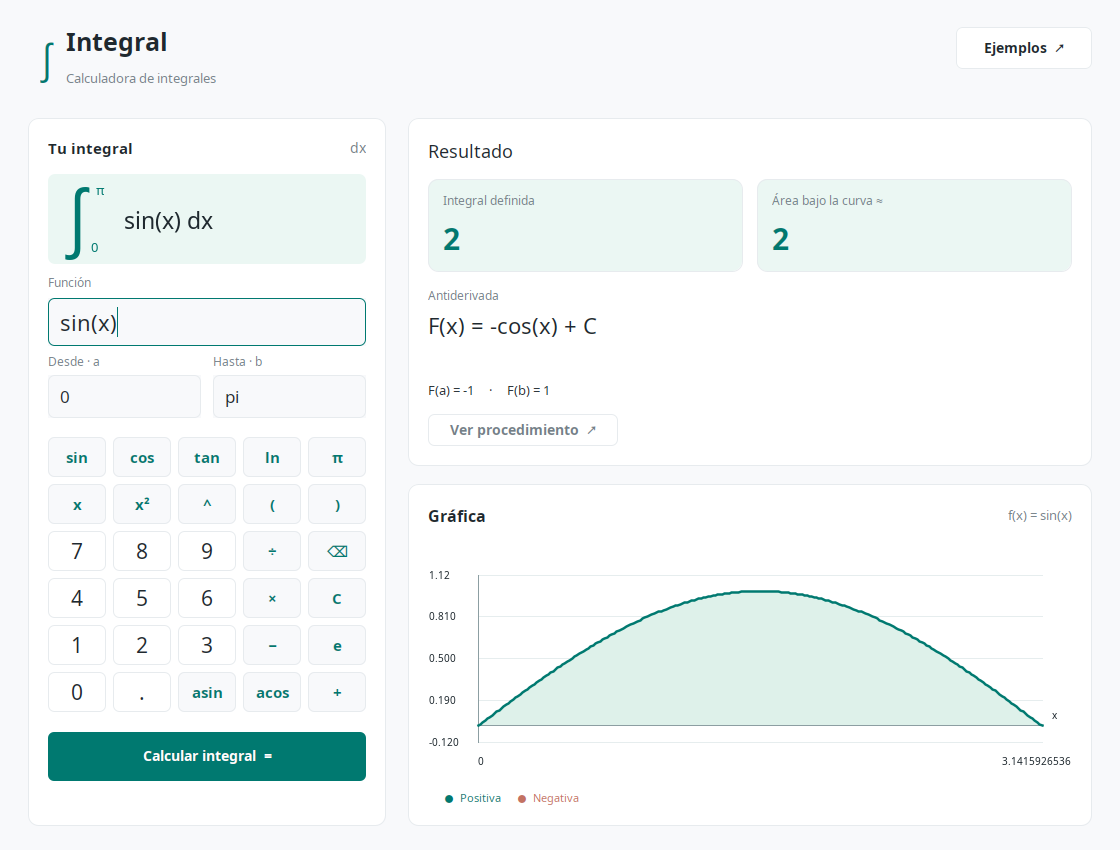
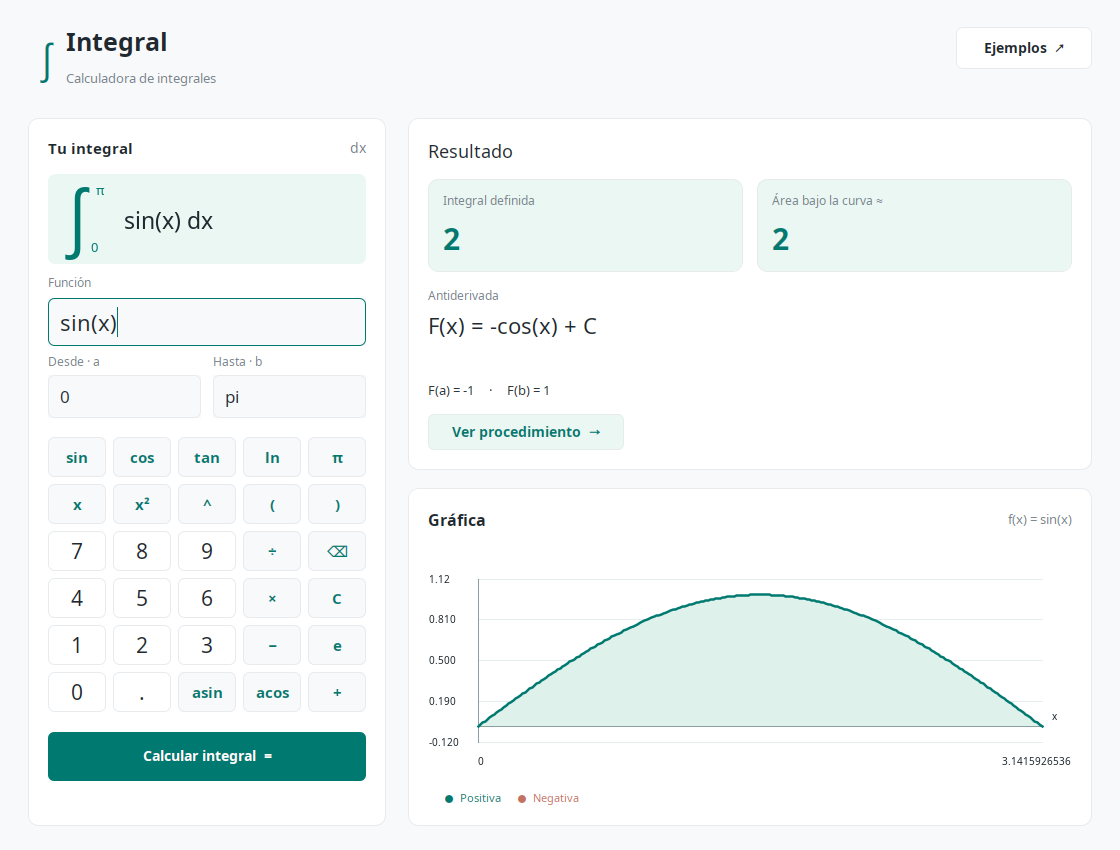
Mejorar estado vacio de grafica y vista del procedimiento

diff --git a/java/Aplicacion.java b/java/Aplicacion.java
@@ -32,7 +32,8 @@ public final class Aplicacion {
     private final JLabel area = valor("—");
     private final JTextArea primitiva = texto(22);
     private final JTextArea evaluaciones = texto(13);
-    private final JTextArea pasos = texto(14);
+    private final Boton verPasos = new Boton("Ver procedimiento  →", VERDE_CLARO, ACENTO);
+    private PuenteProlog.Resultado resultadoActual;
     private final JLabel funcionGrafica = etiqueta("f(x) = 2x", 13, SUAVE);
     private final JLabel tituloResultado = etiqueta("Resultado", 18, TINTA);
     private final Grafica grafica = new Grafica();
@@ -167,14 +168,9 @@ public final class Aplicacion {
         formula.add(evaluaciones, BorderLayout.SOUTH);
         resumen.add(formula, BorderLayout.CENTER);
         resultado.add(resumen, BorderLayout.CENTER);
-        Boton verPasos = new Boton("Ver procedimiento  ↗", Color.WHITE, SUAVE);
         verPasos.setName("procedimiento");
-        verPasos.setPreferredSize(new Dimension(190, 32));
-        verPasos.addActionListener(e -> {
-            JScrollPane scroll = new JScrollPane(pasos); scroll.setBorder(null);
-            scroll.setPreferredSize(new Dimension(490, 320));
-            JOptionPane.showMessageDialog(verPasos, scroll, "Procedimiento", JOptionPane.PLAIN_MESSAGE);
-        });
+        verPasos.setPreferredSize(new Dimension(196, 36));
+        verPasos.addActionListener(e -> mostrarProcedimiento());
         JPanel mas = panel(new FlowLayout(FlowLayout.LEFT, 0, 0)); mas.add(verPasos);
         resultado.add(mas, BorderLayout.SOUTH);
         columna.add(resultado, BorderLayout.NORTH);
@@ -192,6 +188,87 @@ public final class Aplicacion {
         curva.add(leyenda, BorderLayout.SOUTH);
         columna.add(curva, BorderLayout.CENTER);
         return columna;
+    }
+
+    private void mostrarProcedimiento() {
+        if (resultadoActual == null) return;
+        PuenteProlog.Resultado r = resultadoActual;
+        JDialog dialogo = new JDialog(SwingUtilities.getWindowAncestor(verPasos),
+                "Procedimiento", Dialog.ModalityType.DOCUMENT_MODAL);
+        dialogo.setName("dialogo-procedimiento");
+        dialogo.setDefaultCloseOperation(WindowConstants.DISPOSE_ON_CLOSE);
+        JPanel contenido = panel(new BorderLayout(0, 20));
+        contenido.setOpaque(true); contenido.setBackground(Color.WHITE);
+        contenido.setBorder(BorderFactory.createEmptyBorder(24, 26, 22, 26));
+
+        JPanel encabezado = panel(new BorderLayout(0, 12));
+        encabezado.add(negrita("Procedimiento", 22), BorderLayout.NORTH);
+        JTextArea integral = texto(16);
+        integral.setForeground(SUAVE);
+        integral.setText("∫ " + visual(expresion.getText().strip()) + " dx");
+        integral.setRows(2);
+        encabezado.add(integral, BorderLayout.CENTER);
+        contenido.add(encabezado, BorderLayout.NORTH);
+
+        JPanel lista = panel(null);
+        lista.setLayout(new BoxLayout(lista, BoxLayout.Y_AXIS));
+        lista.setBorder(BorderFactory.createEmptyBorder(0, 0, 0, 10));
+        for (int i = 0; i < r.pasos().size(); i++) {
+            JPanel fila = panel(new BorderLayout(12, 0));
+            Tarjeta numero = new Tarjeta(VERDE_CLARO);
+            numero.setBorder(BorderFactory.createEmptyBorder());
+            numero.setLayout(new GridBagLayout());
+            numero.setPreferredSize(new Dimension(30, 30));
+            JLabel orden = negrita(Integer.toString(i + 1), 12);
+            orden.setForeground(ACENTO); numero.add(orden);
+            JPanel indicador = panel(new BorderLayout());
+            indicador.add(numero, BorderLayout.NORTH);
+            fila.add(indicador, BorderLayout.WEST);
+            JTextArea explicacion = texto(14);
+            explicacion.setText(visual(r.pasos().get(i)));
+            explicacion.setSize(410, Short.MAX_VALUE);
+            explicacion.setPreferredSize(new Dimension(410, Math.max(30, explicacion.getPreferredSize().height)));
+            fila.add(explicacion, BorderLayout.CENTER);
+            fila.setAlignmentX(Component.LEFT_ALIGNMENT);
+            fila.setMaximumSize(new Dimension(Integer.MAX_VALUE, fila.getPreferredSize().height));
+            lista.add(fila);
+            if (i < r.pasos().size() - 1) lista.add(Box.createVerticalStrut(18));
+        }
+        JScrollPane scroll = new JScrollPane(lista);
+        scroll.setName("pasos-procedimiento");
+        scroll.setBorder(null); scroll.getViewport().setBackground(Color.WHITE);
+        scroll.setHorizontalScrollBarPolicy(ScrollPaneConstants.HORIZONTAL_SCROLLBAR_NEVER);
+        scroll.getVerticalScrollBar().setUnitIncrement(16);
+        scroll.setPreferredSize(new Dimension(470, Math.min(280, lista.getPreferredSize().height + 4)));
+        contenido.add(scroll, BorderLayout.CENTER);
+
+        JPanel pie = panel(new BorderLayout(0, 18));
+        Tarjeta resumen = new Tarjeta(VERDE_CLARO);
+        resumen.setLayout(new BorderLayout(0, 9));
+        resumen.setBorder(BorderFactory.createEmptyBorder(16, 18, 16, 18));
+        resumen.add(etiqueta("Integral definida", 12, SUAVE), BorderLayout.NORTH);
+        JTextArea evaluacion = texto(16);
+        evaluacion.setOpaque(false);
+        evaluacion.setText("F(b) − F(a) = " + formato(r.fb()) + " − (" + formato(r.fa()) + ")\n= " + formato(r.integral()));
+        evaluacion.setName("resultado-procedimiento");
+        resumen.add(evaluacion, BorderLayout.CENTER);
+        pie.add(resumen, BorderLayout.NORTH);
+        Boton cerrar = new Boton("Cerrar", ACENTO, Color.WHITE);
+        cerrar.setName("cerrar-procedimiento");
+        cerrar.setPreferredSize(new Dimension(104, 38));
+        cerrar.addActionListener(e -> dialogo.dispose());
+        JPanel acciones = panel(new FlowLayout(FlowLayout.RIGHT, 0, 0));
+        acciones.add(cerrar); pie.add(acciones, BorderLayout.SOUTH);
+        contenido.add(pie, BorderLayout.SOUTH);
+        dialogo.setContentPane(contenido);
+        dialogo.getRootPane().setDefaultButton(cerrar);
+        dialogo.getRootPane().registerKeyboardAction(e -> dialogo.dispose(),
+                KeyStroke.getKeyStroke("ESCAPE"), JComponent.WHEN_IN_FOCUSED_WINDOW);
+        dialogo.setMinimumSize(new Dimension(530, 430));
+        dialogo.pack();
+        dialogo.setSize(570, Math.min(700, Math.max(460, dialogo.getHeight())));
+        dialogo.setLocationRelativeTo(verPasos);
+        dialogo.setVisible(true);
     }
 
     private void ejemplos(JButton origen) {
@@ -242,7 +319,8 @@ public final class Aplicacion {
     }
     private void limpiarResultado() {
         definida.setText("—"); area.setText("—");
-        primitiva.setText("—"); evaluaciones.setText(""); pasos.setText("");
+        primitiva.setText("—"); evaluaciones.setText("");
+        resultadoActual = null; verPasos.setEnabled(false);
         tituloResultado.setText("Resultado"); tituloResultado.setForeground(TINTA);
         funcionGrafica.setText("f(x) = " + visual(expresion.getText()));
         grafica.actualizar(List.of());
@@ -265,10 +343,7 @@ public final class Aplicacion {
                     definida.setText(formato(r.integral())); area.setText(formato(r.area()));
                     primitiva.setText("F(x) = " + visual(r.primitiva()) + " + C");
                     evaluaciones.setText("F(a) = " + formato(r.fa()) + "     ·     F(b) = " + formato(r.fb()));
-                    StringBuilder detalle = new StringBuilder();
-                    for (int i = 0; i < r.pasos().size(); i++) detalle.append(i+1).append(". ").append(r.pasos().get(i)).append("\n\n");
-                    detalle.append("F(b) − F(a) = ").append(formato(r.integral()));
-                    pasos.setText(detalle.toString()); pasos.setCaretPosition(0);
+                    resultadoActual = r; verPasos.setEnabled(true);
                     grafica.actualizar(r.puntos());
                     estado.setText(" ");
                 } catch (InterruptedException e) {
@@ -346,7 +421,7 @@ public final class Aplicacion {
         }
         @Override protected void paintComponent(Graphics original) {
             Graphics2D g=(Graphics2D)original.create(); calidad(g); Color fondo=getBackground();
-            if(!isEnabled()) fondo=new Color(216,228,226);
+            if(!isEnabled()) fondo=FONDO;
             else if(getModel().isPressed()) fondo=fondo.darker();
             else if(getModel().isRollover()) fondo=fondo.equals(ACENTO)?ACENTO.darker():new Color(232,243,240);
             g.setColor(fondo); g.fillRoundRect(0,0,getWidth(),getHeight(),12,12);
@@ -369,17 +444,33 @@ public final class Aplicacion {
     private static final class Grafica extends JPanel {
         private static final long serialVersionUID = 1L;
         private List<PuenteProlog.Punto> puntos = List.of();
-        Grafica() { setBackground(Color.WHITE); }
-        void actualizar(List<PuenteProlog.Punto> nuevos) { puntos = nuevos; repaint(); }
+        private final JLabel vacio = etiqueta("La curva aparecerá al calcular", 14, ACENTO);
+        private final Tarjeta tarjetaVacia = new Tarjeta(new Color(229, 245, 237));
+        Grafica() {
+            setName("grafica"); setBackground(Color.WHITE); setLayout(new GridBagLayout());
+            vacio.setName("grafica-vacia");
+            vacio.setIcon(new IconoCurva()); vacio.setIconTextGap(16);
+            vacio.setHorizontalAlignment(SwingConstants.CENTER);
+            vacio.setHorizontalTextPosition(SwingConstants.CENTER);
+            vacio.setVerticalTextPosition(SwingConstants.BOTTOM);
+            tarjetaVacia.setName("tarjeta-grafica-vacia");
+            tarjetaVacia.setLayout(new GridBagLayout());
+            tarjetaVacia.setBorder(BorderFactory.createEmptyBorder(24, 30, 24, 30));
+            tarjetaVacia.add(vacio);
+            add(tarjetaVacia);
+        }
+        void actualizar(List<PuenteProlog.Punto> nuevos) {
+            puntos = nuevos;
+            tarjetaVacia.setVisible(nuevos.isEmpty()); vacio.setVisible(nuevos.isEmpty());
+            revalidate(); repaint();
+        }
         @Override protected void paintComponent(Graphics original) {
             super.paintComponent(original);
             Graphics2D g = (Graphics2D) original.create();
             try {
                 g.setRenderingHint(RenderingHints.KEY_ANTIALIASING, RenderingHints.VALUE_ANTIALIAS_ON);
                 int w = getWidth(), h = getHeight();
-                if (puntos.isEmpty()) {
-                    g.setColor(TINTA); g.drawString("La curva aparecerá al calcular.", 35, h / 2); return;
-                }
+                if (puntos.isEmpty()) return;
                 double minX = puntos.get(0).x(), maxX = puntos.get(puntos.size() - 1).x();
                 double minY = 0, maxY = 0;
                 for (var p : puntos) { minY = Math.min(minY, p.y()); maxY = Math.max(maxY, p.y()); }
@@ -422,6 +513,21 @@ public final class Aplicacion {
                 g.drawString(formato(puntos.get(puntos.size()-1).x()), w - 70, h - 17);
                 g.drawString("x", w - 20, (int)cero - 6);
             } finally { g.dispose(); }
+        }
+    }
+
+    private static final class IconoCurva implements Icon {
+        @Override public int getIconWidth() { return 56; }
+        @Override public int getIconHeight() { return 56; }
+        @Override public void paintIcon(Component c, Graphics original, int x, int y) {
+            Graphics2D g = (Graphics2D) original.create(); calidad(g); g.translate(x,y);
+            g.setColor(VERDE_CLARO); g.fillRoundRect(0,0,56,56,18,18);
+            g.setStroke(new BasicStroke(1.3f)); g.setColor(new Color(171,202,194));
+            g.drawLine(13,41,43,41); g.drawLine(14,14,14,41);
+            Path2D curva = new Path2D.Double(); curva.moveTo(14,36);
+            curva.curveTo(24,36,24,19,32,19); curva.curveTo(37,19,39,25,43,22);
+            g.setStroke(new BasicStroke(2.2f,BasicStroke.CAP_ROUND,BasicStroke.JOIN_ROUND));
+            g.setColor(ACENTO); g.draw(curva); g.dispose();
         }
     }
 }

diff --git a/tests/PruebaInterfaz.java b/tests/PruebaInterfaz.java
@@ -25,6 +25,9 @@ public final class PruebaInterfaz {
                 componentes=descendientes(ventana);
                 comprobar(componentes.stream().noneMatch(c -> c instanceof JComboBox<?>),"Sin selector antiguo");
                 comprobar(componentes.stream().noneMatch(c -> c instanceof JLabel l && l.getText().contains("Prolog")),"Sin mensajes técnicos");
+                comprobar(!boton("procedimiento").isEnabled(),"Procedimiento desactivado sin cálculo");
+                comprobarCentrado();
+                captura("docs/captura-vacia.png");
                 campo("expresion").requestFocusInWindow();
                 campo("expresion").setText("");
                 boton("tecla-2").doClick(); boton("tecla-x").doClick();
@@ -34,7 +37,29 @@ public final class PruebaInterfaz {
             esperar(() -> primitiva().getText().startsWith("F(x) ="));
             SwingUtilities.invokeAndWait(() -> {
                 comprobar(componentes.stream().anyMatch(c -> c instanceof JLabel l && l.getText().equals("4")),"Resultado 2x = 4");
+                comprobar(!vacio().isVisible(),"Mensaje oculto al mostrar curva");
+                comprobar(!vacio().getParent().isVisible(),"Tarjeta oculta al mostrar curva");
+                comprobar(boton("procedimiento").isEnabled(),"Procedimiento disponible tras calcular");
                 captura("docs/captura.png");
+            });
+            SwingUtilities.invokeLater(() -> boton("procedimiento").doClick());
+            esperar(() -> dialogoProcedimiento()!=null);
+            SwingUtilities.invokeAndWait(() -> {
+                JDialog dialogo=dialogoProcedimiento();
+                comprobar(dialogo!=null,"Diálogo visible");
+                var contenido=descendientes(dialogo);
+                comprobar(contenido.stream().noneMatch(c -> c instanceof JOptionPane),"Sin cuadro genérico antiguo");
+                comprobar(contenido.stream().filter(c -> c instanceof JScrollPane && "pasos-procedimiento".equals(c.getName()))
+                        .map(JScrollPane.class::cast).noneMatch(s -> s.getVerticalScrollBar().isVisible()),
+                        "Procedimiento corto completo sin desplazamiento");
+                comprobar(contenido.stream().anyMatch(c -> c instanceof JTextArea t
+                        && "resultado-procedimiento".equals(c.getName()) && t.getText().endsWith("= 4")),"Resultado en procedimiento");
+                captura(dialogo,"docs/captura-procedimiento.png");
+                contenido.stream().filter(c -> c instanceof JButton && "cerrar-procedimiento".equals(c.getName()))
+                        .map(JButton.class::cast).findFirst().orElseThrow().doClick();
+            });
+            esperar(() -> dialogoProcedimiento()==null);
+            SwingUtilities.invokeAndWait(() -> {
                 boton("ejemplos").doClick();
                 JPopupMenu popup=null;
                 for (MenuElement e:MenuSelectionManager.defaultManager().getSelectedPath()) if(e instanceof JPopupMenu p) popup=p;
@@ -46,11 +71,36 @@ public final class PruebaInterfaz {
                 comprobar(campo("superior").getText().equals("pi"),"Ejemplo carga límite");
             });
             // La edición invalida los resultados anteriores.
-            SwingUtilities.invokeAndWait(() -> comprobar(primitiva().getText().equals("—"),"Sin resultados obsoletos"));
+            SwingUtilities.invokeAndWait(() -> {
+                comprobar(primitiva().getText().equals("—"),"Sin resultados obsoletos");
+                comprobar(!boton("procedimiento").isEnabled(),"No mostrar procedimiento obsoleto");
+            });
             SwingUtilities.invokeAndWait(() -> boton("calcular").doClick());
             esperar(() -> primitiva().getText().startsWith("F(x) ="));
             SwingUtilities.invokeAndWait(() -> {
                 captura("docs/captura-seno.png");
+                campo("expresion").setText("x+x+x+x+x+x+x+x+x+x+x+x+x+x+x+x");
+                campo("inferior").setText("0"); campo("superior").setText("1");
+                boton("calcular").doClick();
+            });
+            esperar(() -> primitiva().getText().startsWith("F(x) ="));
+            SwingUtilities.invokeLater(() -> boton("procedimiento").doClick());
+            esperar(() -> dialogoProcedimiento()!=null);
+            SwingUtilities.invokeAndWait(() -> {
+                JDialog dialogo=dialogoProcedimiento();
+                var scroll=descendientes(dialogo).stream()
+                        .filter(c -> c instanceof JScrollPane && "pasos-procedimiento".equals(c.getName()))
+                        .map(JScrollPane.class::cast).findFirst().orElseThrow();
+                comprobar(scroll.getVerticalScrollBar().getMaximum()>scroll.getVerticalScrollBar().getVisibleAmount(),
+                        "Procedimiento largo desplazable");
+                Object enlace=dialogo.getRootPane().getInputMap(JComponent.WHEN_IN_FOCUSED_WINDOW)
+                        .get(KeyStroke.getKeyStroke("ESCAPE"));
+                comprobar(enlace!=null,"Escape configurado");
+                dialogo.getRootPane().getActionMap().get(enlace).actionPerformed(
+                        new java.awt.event.ActionEvent(dialogo,java.awt.event.ActionEvent.ACTION_PERFORMED,"escape"));
+            });
+            esperar(() -> dialogoProcedimiento()==null);
+            SwingUtilities.invokeAndWait(() -> {
                 // Confirmar inserción en el límite enfocado, no en la función.
                 campo("superior").requestFocusInWindow();
             });
@@ -63,10 +113,12 @@ public final class PruebaInterfaz {
             esperar(() -> primitiva().getText().contains("continua/real"));
             SwingUtilities.invokeAndWait(() -> {
                 comprobar(componentes.stream().anyMatch(c -> c instanceof JLabel l && l.getText().equals("Revisa tu integral")),"Error visible");
+                comprobar(!boton("procedimiento").isEnabled(),"Sin procedimiento tras error");
                 ventana.setSize(980,790); ventana.validate();
                 comprobar(boton("calcular").getHeight()>=40,"Controles utilizables en tamaño mínimo");
+                comprobarCentrado();
             });
-            System.out.println("Swing: teclado, 2x, ejemplos, límites, resultados, error y tamaño mínimo correctos.");
+            System.out.println("Swing: estado vacío centrado, procedimiento, teclado, resultados y errores correctos.");
         } finally {
             SwingUtilities.invokeAndWait(() -> { for(Window w:Window.getWindows()) w.dispose(); });
         }
@@ -74,6 +126,30 @@ public final class PruebaInterfaz {
     private static JTextArea primitiva() {
         return componentes.stream().filter(c -> c instanceof JTextArea t && t.getFont().getSize()==22)
                 .map(JTextArea.class::cast).findFirst().orElseThrow();
+    }
+    private static JLabel vacio() {
+        return componentes.stream().filter(c -> c instanceof JLabel && "grafica-vacia".equals(c.getName()))
+                .map(JLabel.class::cast).findFirst().orElseThrow();
+    }
+    private static void comprobarCentrado() {
+        JLabel mensaje=vacio();
+        comprobar(mensaje.isVisible(),"Estado vacío visible");
+        comprobar(Math.abs(mensaje.getX()+mensaje.getWidth()/2.0-mensaje.getParent().getWidth()/2.0)<=1,
+                "Mensaje centrado horizontalmente");
+        comprobar(Math.abs(mensaje.getY()+mensaje.getHeight()/2.0-mensaje.getParent().getHeight()/2.0)<=1,
+                "Mensaje centrado verticalmente");
+        Container tarjeta=mensaje.getParent();
+        comprobar("tarjeta-grafica-vacia".equals(tarjeta.getName()),"Mensaje dentro de tarjeta");
+        comprobar(tarjeta.getBackground().getGreen()>tarjeta.getBackground().getRed(),"Fondo verde suave");
+        comprobar(Math.abs(tarjeta.getX()+tarjeta.getWidth()/2.0-tarjeta.getParent().getWidth()/2.0)<=1,
+                "Tarjeta centrada horizontalmente");
+        comprobar(Math.abs(tarjeta.getY()+tarjeta.getHeight()/2.0-tarjeta.getParent().getHeight()/2.0)<=1,
+                "Tarjeta centrada verticalmente");
+    }
+    private static JDialog dialogoProcedimiento() {
+        for(Window w:Window.getWindows()) if(w instanceof JDialog d && d.isVisible()
+                && "dialogo-procedimiento".equals(d.getName())) return d;
+        return null;
     }
     private static JButton boton(String nombre) {
         return componentes.stream().filter(c -> c instanceof JButton && nombre.equals(c.getName()))
@@ -99,8 +175,12 @@ public final class PruebaInterfaz {
         throw new AssertionError("No llegó el resultado esperado.");
     }
     private static void captura(String nombre) {
-        BufferedImage img=new BufferedImage(ventana.getWidth(),ventana.getHeight(),BufferedImage.TYPE_INT_RGB);
-        Graphics2D g=img.createGraphics(); ventana.paintAll(g); g.dispose();
+        captura(ventana,nombre);
+    }
+    private static void captura(Window objetivo,String nombre) {
+        Component contenido=objetivo instanceof RootPaneContainer raiz?raiz.getContentPane():objetivo;
+        BufferedImage img=new BufferedImage(contenido.getWidth(),contenido.getHeight(),BufferedImage.TYPE_INT_RGB);
+        Graphics2D g=img.createGraphics(); contenido.paintAll(g); g.dispose();
         try { Files.createDirectories(Path.of("docs")); ImageIO.write(img,"png",Path.of(nombre).toFile()); }
         catch(Exception e) { throw new RuntimeException(e); }
     }
